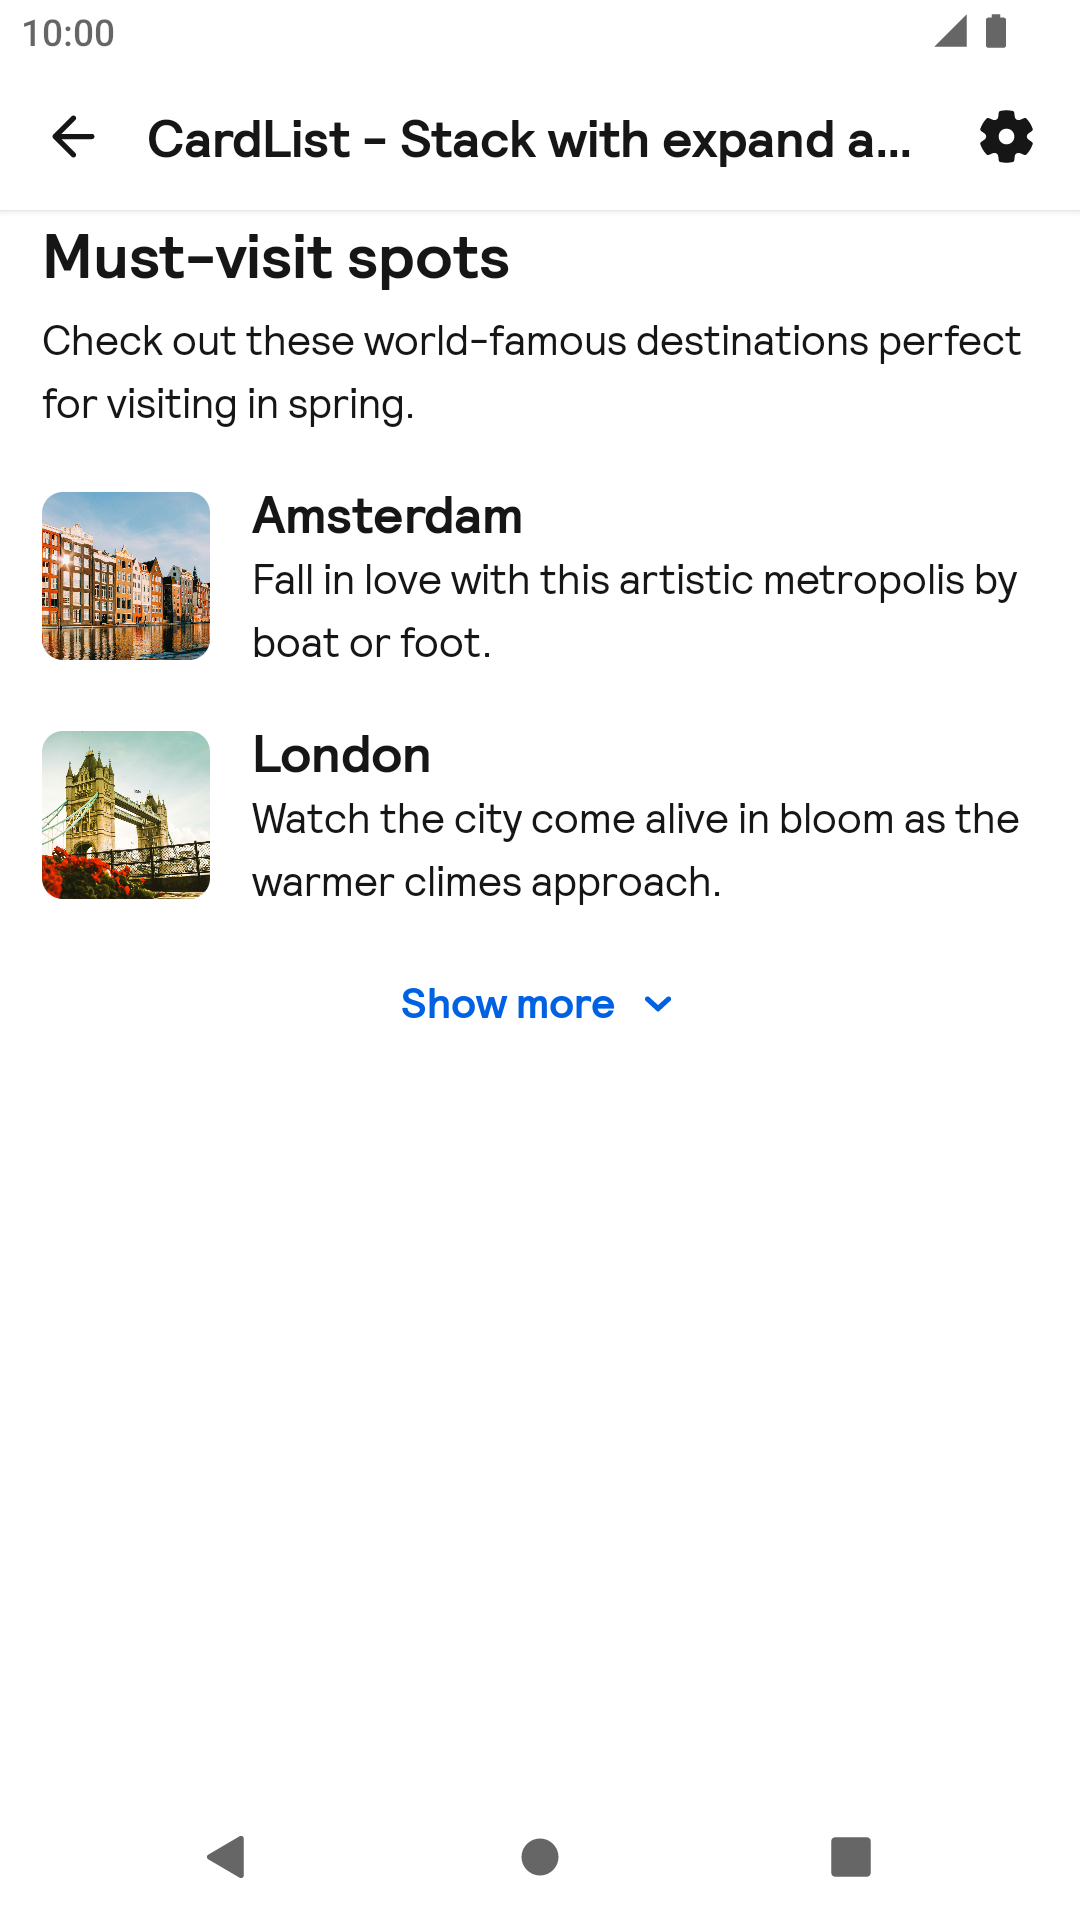
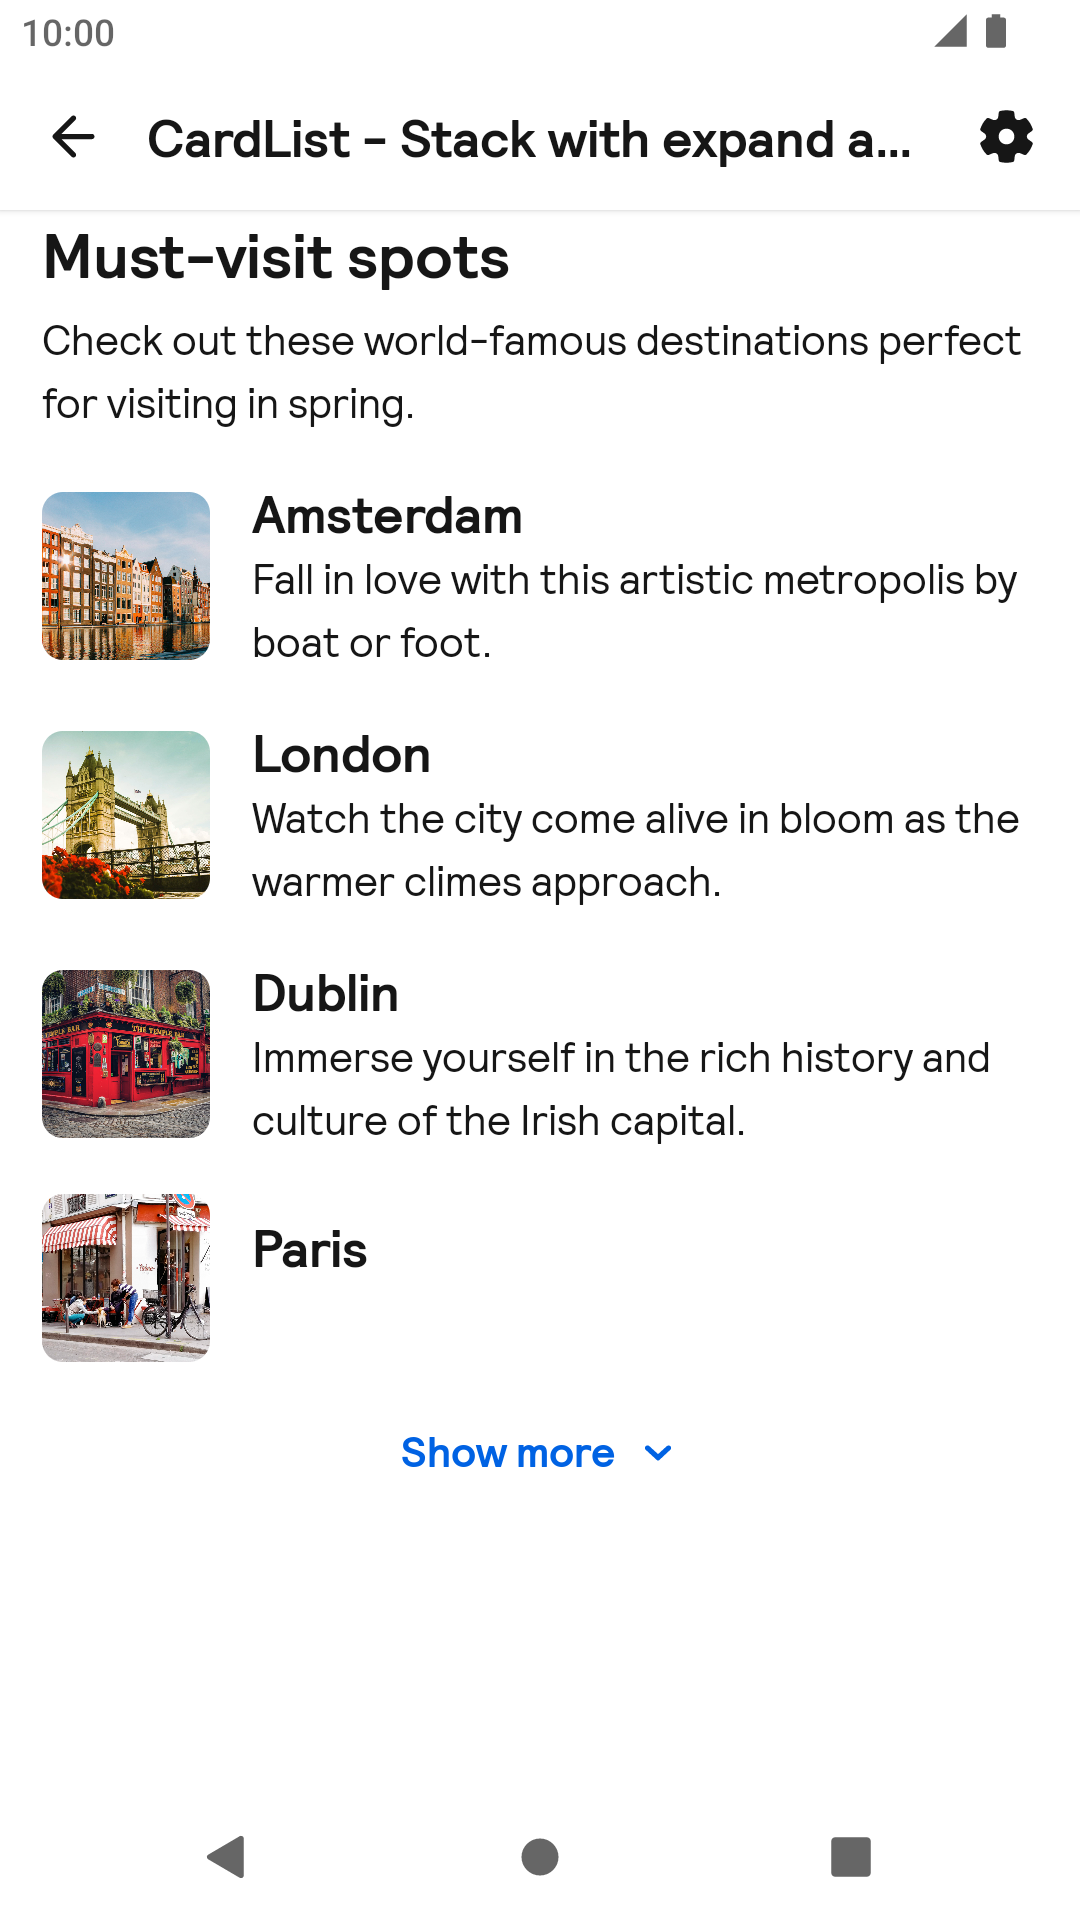
OGM-3426 address PR issues

Changed region(s): [[0.0306, 0.5, 0.9167, 0.5938], [0.0306, 0.625, 0.3361, 0.7188], [0.3667, 0.75, 0.5806, 0.7812]]

diff --git a/app/src/main/java/net/skyscanner/backpack/demo/compose/CardListStory.kt b/app/src/main/java/net/skyscanner/backpack/demo/compose/CardListStory.kt
@@ -116,11 +116,11 @@ fun CardListStackWithExpandAccessoryStory(modifier: Modifier = Modifier) {
         BpkStackCardList(
             title = stringResource(R.string.card_list_title),
             description = stringResource(R.string.card_list_description),
-            totalCount = 4,
+            totalCount = 5,
             accessoryStyle = BpkStackCardAccessoryStyle.Expand(
                 expandText = stringResource(R.string.card_list_show_more),
                 collapsedText = stringResource(R.string.card_list_show_less),
-                collapsedCount = 4,
+                collapsedCount = 2,
             ),
         ) { index -> StackItem(dataList[index]) }
     }
